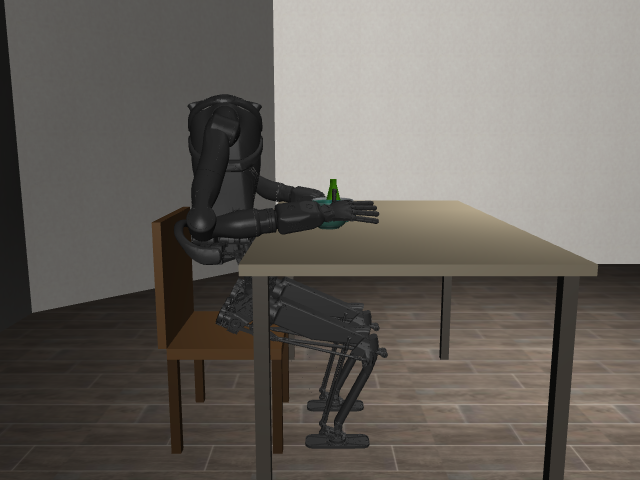
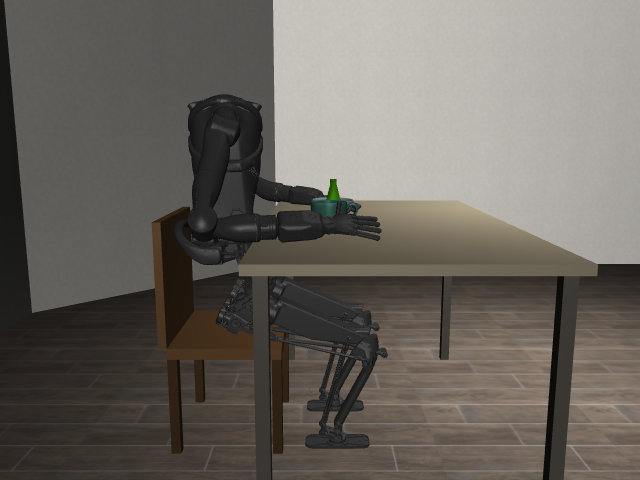
Hands collide as drawn and start resting on the table
pal_mjlab's hands had no collision geoms (fingers sank 25 mm into the table) and
the forearm collided as a 7 cm capsule that propped the right hand 20 mm up.
robot_spec now names the forearm/wrist/hand meshes *_collision (mjlab's
CollisionCfg keeps only those) and drops the capsule. Smallest pose changes rest
both hands ~0.5 mm above the top: left elbow +0.072, right shoulder -0.025 and
elbow -0.047 rad. Test checks no arm/hand geometry sinks into the table at start
or after settling, and each hand rests on it.

Changed region(s): [[0.3438, 0.375, 0.5938, 0.5312]]

diff --git a/tests/test_scene.py b/tests/test_scene.py
@@ -38,17 +38,34 @@ def test_arms_held_with_hands_on_table():
     m, d = make_model(); step_1s(m, d)
     arms = [n for n in POSE if n.startswith("arm_")]
     assert len(arms) == 10 and all(m.actuator(f"robot/{n}") for n in arms)  # PAL's arm actuators, not free
-    assert max(abs(d.joint(f"robot/{n}").qpos[0] - POSE[n]) for n in arms) < 0.1
-    for s in ("left", "right"):  # each forearm rests on the table
-        assert any({m.body(m.geom_bodyid[c.geom1]).name, m.body(m.geom_bodyid[c.geom2]).name} == {f"robot/arm_{s}_4_link", "table"}
-                   for c in d.contact[:d.ncon]), s
+    assert max(abs(d.joint(f"robot/{n}").qpos[0] - POSE[n]) for n in arms) < 0.1  # table contact: test_hands_rest_on_table_not_in_it
 
-def test_arms_rest_on_table_not_in_it():
-    m, d = make_model(); step_1s(m, d)
-    arm_table = [c.dist for c in d.contact[:d.ncon]
-                 if {m.body(m.geom_bodyid[c.geom1]).name, m.body(m.geom_bodyid[c.geom2]).name} & {"table"}
-                 and "arm_" in m.body(m.geom_bodyid[c.geom1]).name + m.body(m.geom_bodyid[c.geom2]).name]
-    assert arm_table and min(arm_table) > -0.005, arm_table
+def hand_low_z(m, d, side):
+    """Lowest vertex of the hand's collision meshes."""
+    z = []
+    for g in range(m.ngeom):
+        if m.geom(g).name.startswith(f"robot/hand_{side}") and m.geom(g).name.endswith("_collision"):
+            a, n = m.mesh_vertadr[m.geom_dataid[g]], m.mesh_vertnum[m.geom_dataid[g]]
+            z.append((d.geom_xpos[g] + m.mesh_vert[a:a + n] @ d.geom_xmat[g].reshape(3, 3).T)[:, 2].min())
+    return min(z)
+
+def test_hands_rest_on_table_not_in_it():
+    """Visible forearm and hand meshes collide; each hand touches the table top and nothing sinks into it."""
+    m, d = make_model()
+    for t in ("start", "settled"):
+        if t == "settled":
+            step_1s(m, d)
+        touching = {"left": [], "right": []}
+        for c in d.contact[:d.ncon]:
+            names = {m.body(m.geom_bodyid[c.geom1]).name, m.body(m.geom_bodyid[c.geom2]).name}
+            arm = next((n for n in names if n.startswith(("robot/arm_", "robot/hand_"))), None)
+            if "table" in names and arm:
+                assert c.dist > -0.002, (t, arm, c.dist)
+                touching["left" if "left" in arm else "right"].append(arm)
+        if t == "settled":
+            for s in ("left", "right"):  # the hand or its wrist (arm_*_5, which carries the hand) is on the table
+                assert any("hand_" in n or "_5_link" in n for n in touching[s]), (s, touching[s])
+                assert hand_low_z(m, d, s) - 0.82 < 0.003, s  # no hand hovering above the top
 
 def test_arm_moves_and_renders():
     m, d = make_model()

diff --git a/kangaroo_seated/scene.py b/kangaroo_seated/scene.py
@@ -3,6 +3,7 @@
 Arms, legs and trunk use pal_mjlab's own position actuators (kangaroo_constants COMMON_ACTUATORS); ctrl = target joint angles.
 """
 import json
+import re
 from pathlib import Path
 
 import mjlab  # noqa: F401  (first: its entry-point loader imports pal_mjlab.tasks, which is circular if pal_mjlab loads first)
@@ -20,7 +21,14 @@ OBJECTS = ("cup", "bottle", "bowl")
 OBJECT_X = -0.05          # final value, x offset of the objects from the table centre
 OBJECT_DY = 0.15          # spacing in y, centred on y = 0
 SETUP = json.load(open(Path(__file__).with_name("seated_setup.json")))
-POSE = SETUP["poses"]["seated_hands_on_table"]["joints"]  # same legs as seated_arms_at_side, hands resting on the table
+# Confirmed seated_hands_on_table pose (same legs as seated_arms_at_side). With collision on the visible meshes it puts the
+# left fingertips 25 mm into the table and the right hand 20 mm above it (forearm 1.5 mm in). Smallest changes that start
+# each hand ~0.5 mm above the top (tests/test_scene.py checks the contacts):
+POSE = {**SETUP["poses"]["seated_hands_on_table"]["joints"],
+        "arm_left_4_joint": 1.557591,    # elbow +0.072 rad: fingertips on the table, forearm 29 mm above it
+        "arm_right_2_joint": 0.922775,   # shoulder -0.025 rad and
+        "arm_right_4_joint": 1.842134}   # elbow -0.047 rad: right hand and forearm both on the table
+FOREARM_AND_HAND = re.compile(r"(arm_(left|right)_[45]|hand_(left|right)_.*)_link")
 HELD_JOINTS = [n for n in POSE if n.startswith(("leg_", "pelvis_")) and not n.endswith(("_femur_joint", "_knee_joint"))]
 
 
@@ -49,6 +57,14 @@ def robot_spec():
     for j in base.joints:
         robot.delete(j)  # free joint 'origin'
     base.pos, base.quat = [0, 0, 0], [1, 0, 0, 0]
+    # pal_mjlab's hands have no collision geoms and the forearm collides as a coarse 7 cm capsule, so on the table
+    # the fingers sink in and the capsule props the hand up. Collide with the visible meshes instead (mjlab's
+    # CollisionCfg only keeps geoms named *_collision).
+    for s in ("left", "right"):
+        robot.delete(robot.geom(f"arm_{s}_4_collision"))
+    for i, g in enumerate(robot.geoms):
+        if g.type == mujoco.mjtGeom.mjGEOM_MESH and FOREARM_AND_HAND.fullmatch(g.parent.name):
+            g.name = f"{g.parent.name}_mesh{i}_collision"
     return robot
 
 

diff --git a/view.py b/view.py
@@ -1,6 +1,6 @@
 """View the seated Kangaroo scene: live window by default, or --video out.mp4 headless.
 
-Arms are held by pal_mjlab's position actuators with the forearms resting on the table.
+Arms are held by pal_mjlab's position actuators with both hands resting on the table.
 """
 import argparse, time, imageio, mujoco
 from kangaroo_seated import make_model

diff --git a/README.md b/README.md
@@ -42,8 +42,9 @@ docker run --rm -it --gpus all -e DISPLAY=$DISPLAY -e MUJOCO_GL=glfw -e PYOPENGL
   -v /tmp/.X11-unix:/tmp/.X11-unix -v "$PWD:/workspace" robot-learning python view.py
 ```
 
-The robot starts in the confirmed `seated_hands_on_table` pose, forearms resting on the table, with
-every joint held by pal_mjlab's own position actuators (the same ones mjlab uses).
+The robot starts in the confirmed `seated_hands_on_table` pose (elbows adjusted a few degrees so both hands
+rest on the table top), with every joint held by pal_mjlab's own position actuators (the same ones mjlab
+uses). The forearm and hand meshes are the collision shapes, so hands touch the table and objects as drawn.
 
 ## 3. Build your own work on it
 

diff --git a/CONTEXT.md b/CONTEXT.md
@@ -25,7 +25,7 @@ PAL Robotics' mjlab package that provides the Kangaroo model, its actuators and 
 _Avoid_: kangaroo_mujoco, ROS package
 
 **Fixed base**:
-The Kangaroo pelvis held at the seated pose on the chair, with legs and trunk locked, so the robot cannot fall; arms are held by position actuators, forearms resting on the table.
+The Kangaroo pelvis held at the seated pose on the chair, with legs and trunk locked, so the robot cannot fall; arms are held by position actuators, hands resting on the table.
 _Avoid_: welded base, pinned robot
 
 ### LIBERO
